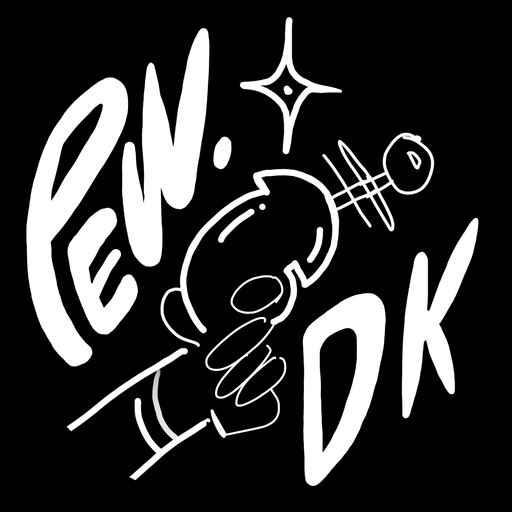
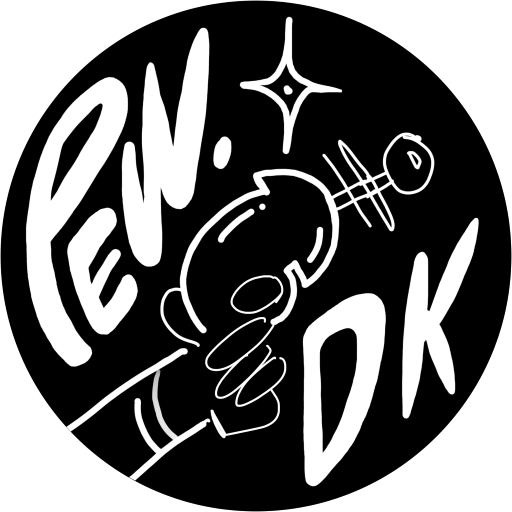
Flipped in js

diff --git a/js/gl.js b/js/gl.js
@@ -1364,7 +1364,7 @@ var importObject = {
             return file_id;
         },
 
-        fs_load_image: function (ptr, len) {
+        fs_load_image: function (ptr, len, flipped) {
             var url = UTF8ToString(ptr, len);
             console.log("fs_load_image: " + url);
             var file_id = FS.unique_id;
@@ -1375,6 +1375,10 @@ var importObject = {
                 console.log("fs_load_image::onload " + url);
                 const offscreen_canvas = new OffscreenCanvas(image.width, image.height);
                 const ctx = offscreen_canvas.getContext('2d');
+                if (flipped) {
+                    ctx.translate(0, image.height);
+                    ctx.scale(1, -1);
+                }
                 ctx.drawImage(image, 0, 0);
 
                 FS.image_dims[file_id] = { width: image.width, height: image.height};

diff --git a/src/fs.rs b/src/fs.rs
@@ -136,7 +136,7 @@ mod wasm {
         use std::ffi::CString;
 
         let url = CString::new(path).unwrap();
-        let file_id = unsafe { fs::fs_load_image(url.as_ptr(), url.as_bytes().len() as u32) };
+        let file_id = unsafe { fs::fs_load_image(url.as_ptr(), url.as_bytes().len() as u32, true) };
         FILES.with(move |files| {
             let mut files = files.borrow_mut();
             files.insert(file_id, Box::new(move |res: Response| {

diff --git a/src/native/wasm/fs.rs b/src/native/wasm/fs.rs
@@ -3,7 +3,7 @@ extern "C" {
     pub fn fs_get_buffer_size(file_id: u32) -> i32;
     pub fn fs_take_buffer(file_id: u32, ptr: *mut u8, max_size: u32);
 
-    pub fn fs_load_image(ptr: *const i8, len: u32) -> u32;
+    pub fn fs_load_image(ptr: *const i8, len: u32, flipped: bool) -> u32;
     pub fn fs_get_image_width(file_id: u32) -> u32;
     pub fn fs_get_image_height(file_id: u32) -> u32;
 }
